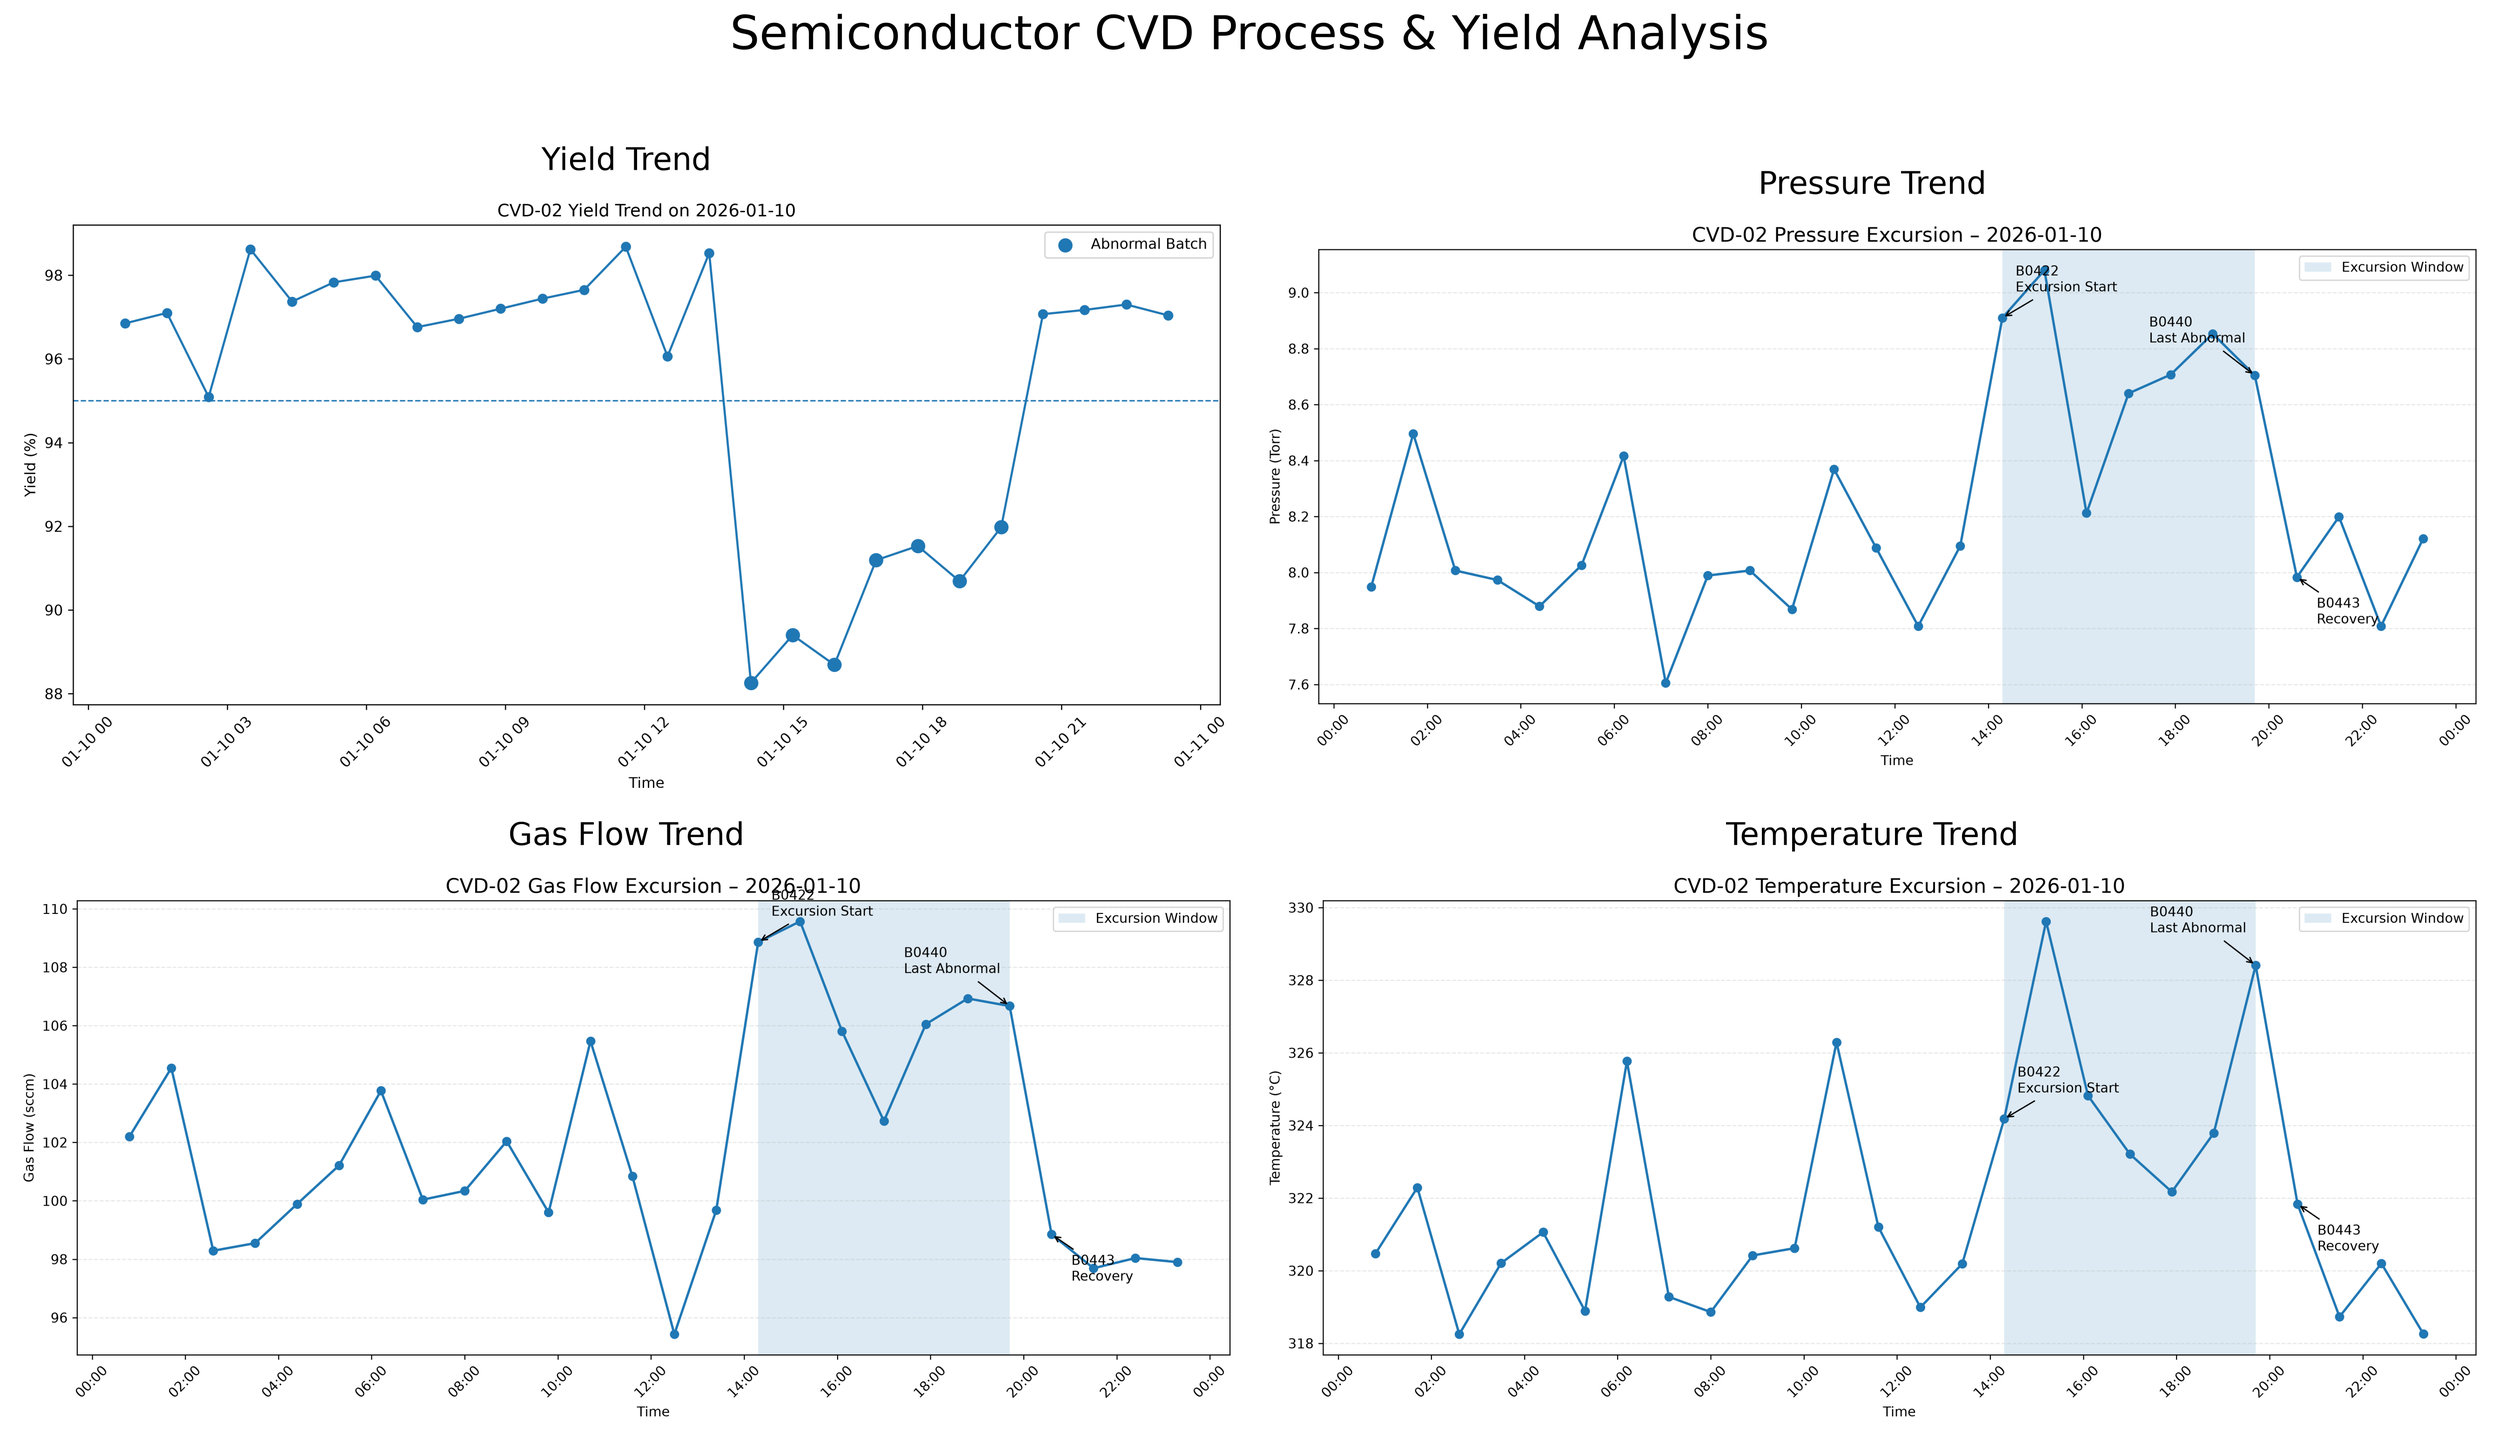
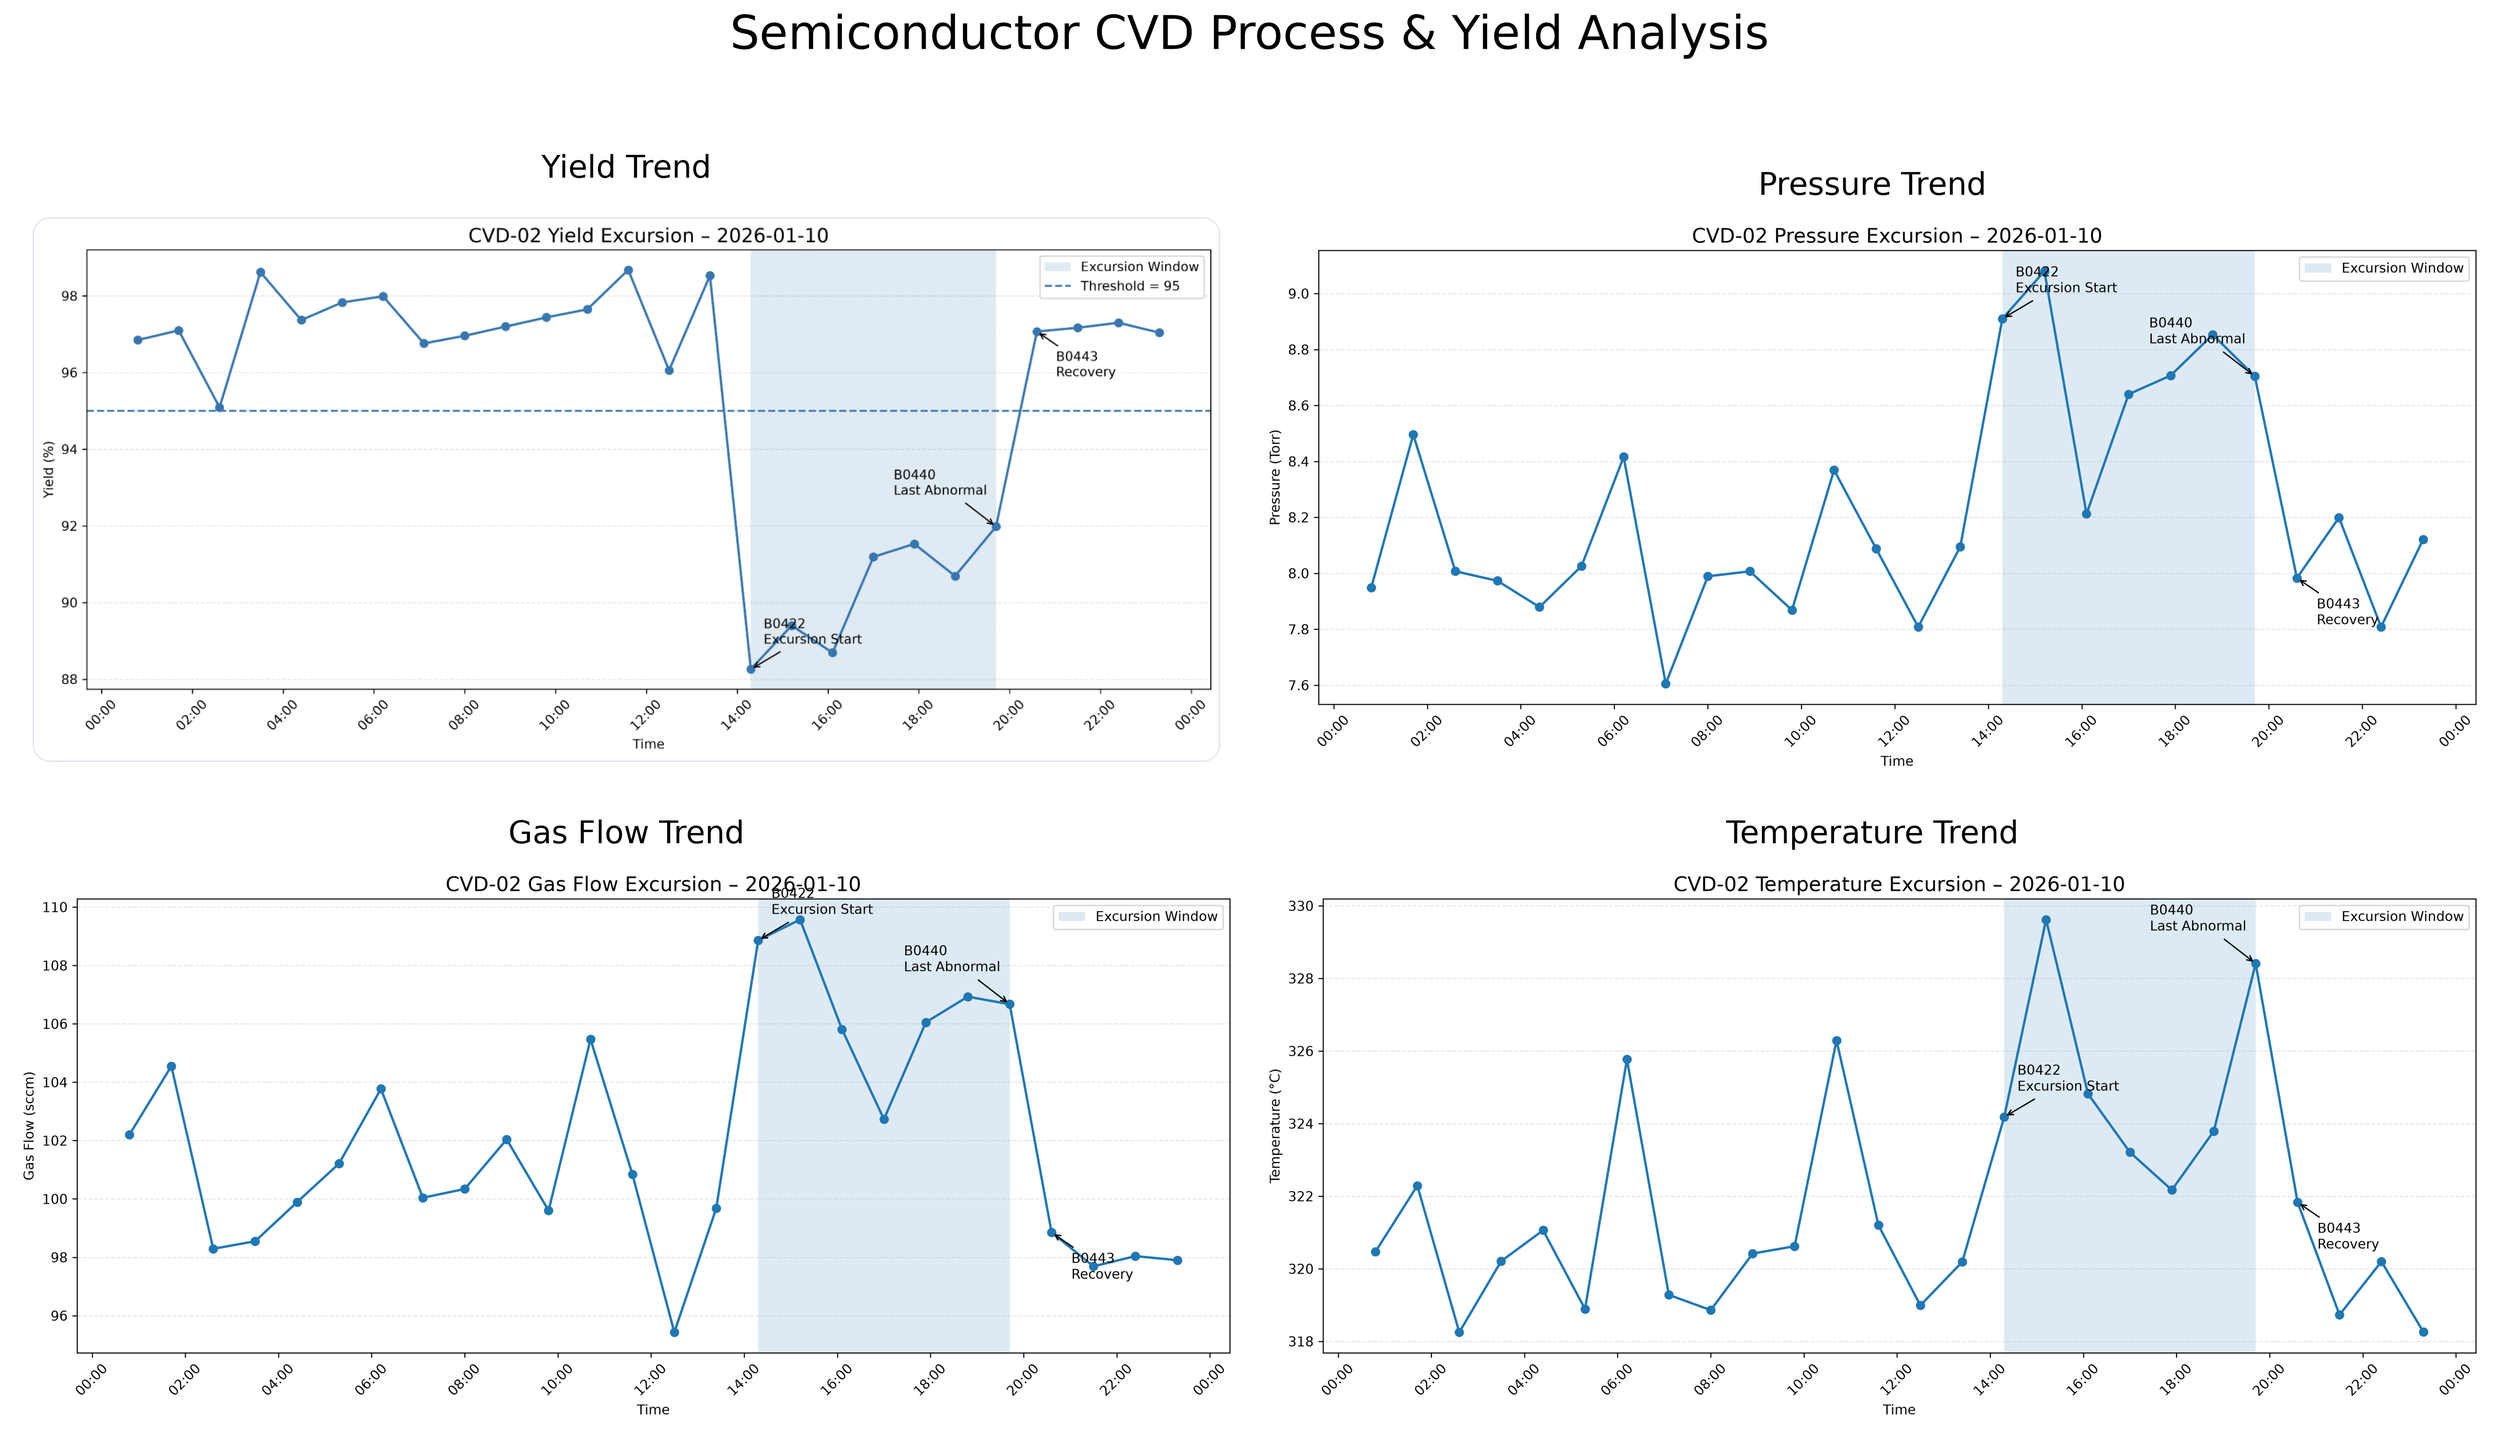
Refresh README dashboard with current analysis charts

diff --git a/create_dashboard.py b/create_dashboard.py
@@ -12,10 +12,10 @@ PROJECT_DIR = Path(__file__).resolve().parent
 OUTPUT_PATH = PROJECT_DIR / "images" / "dashboard_preview.png"
 
 PANELS = (
-    ("Yield Trend", "images/batch_trends/cvd02_2026-01-10_yield_trend.png"),
-    ("Pressure Trend", "images/portfolio/portfolio_02_pressure.png"),
-    ("Gas Flow Trend", "images/portfolio/portfolio_03_gas_flow.png"),
-    ("Temperature Trend", "images/portfolio/portfolio_04_temperature.png"),
+    ("Yield Trend", "results/yield_analysis.png"),
+    ("Pressure Trend", "results/pressure_analysis.png"),
+    ("Gas Flow Trend", "results/gas_flow_analysis.png"),
+    ("Temperature Trend", "results/temperature_analysis.png"),
 )
 
 

diff --git a/README.md b/README.md
@@ -1,6 +1,6 @@
 # Semiconductor Equipment Process Monitoring & Yield Analysis
 
-![Dashboard preview showing CVD yield, pressure, gas flow, and temperature trends](images/dashboard_preview.png)
+![Updated dashboard combining yield, pressure, gas flow, and temperature analyses](images/dashboard_preview.png)
 
 This project simulates a semiconductor CVD process monitoring environment. Using Python and a 500-batch synthetic dataset, it examines relationships between process parameters and wafer yield, compares normal and abnormal batches, and turns process trends into a structured engineering investigation.
 
